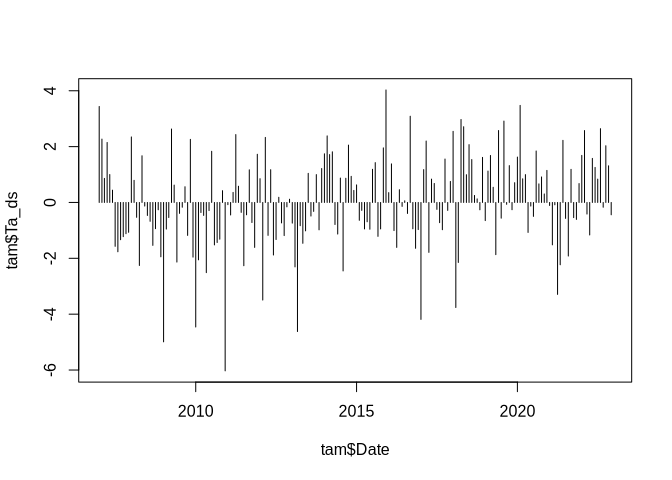
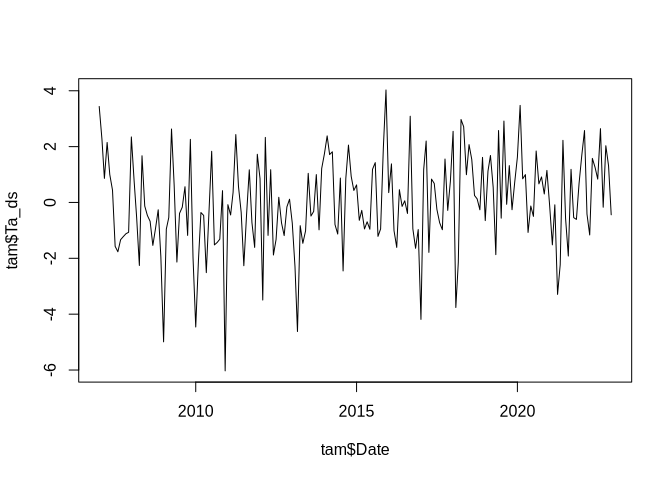
unit10-02 improved code formatting; changed  plot type of 14-1.png to better match 17-1.png

Changed region(s): [[0.125, 0.2188, 0.9062, 0.7188]]

diff --git a/docs/units/_unit10/unit10-02_time_series_analysis.md b/docs/units/_unit10/unit10-02_time_series_analysis.md
@@ -130,8 +130,7 @@ Since this function requires a time series, this data type has to be created fir
 Note that the frequency argument in the time series function does not correspond to the seasonal component but to the number of sub-observations within each major time step (i.e. monthly values within annual major time steps in our case):
 
 ```r
-tam_ts <- ts(tam$Ta, start = c(2007, 1), end = c(2022, 12), 
-             frequency = 12)
+tam_ts <- ts(tam$Ta, start = c(2007, 1), end = c(2022, 12), frequency = 12)
 tam_ts_dec <- decompose(tam_ts)
 plot(tam_ts_dec$trend)
 ```
@@ -178,7 +177,7 @@ In order to remove the seasonal signal, we can average over all values for each 
 ```r
 monthly_mean <- aggregate(tam$Ta, by = list(substr(tam$Date, 6, 7)), FUN = mean)
 tam$Ta_ds <- tam$Ta - monthly_mean$x
-plot(tam$Date, tam$Ta_ds, type = "h")
+plot(tam$Date, tam$Ta_ds, type = "l")
 ```
 
 ![]({{ site.baseurl }}/assets/images/rmd_images/e10-02/unnamed-chunk-14-1.png)<!-- -->
